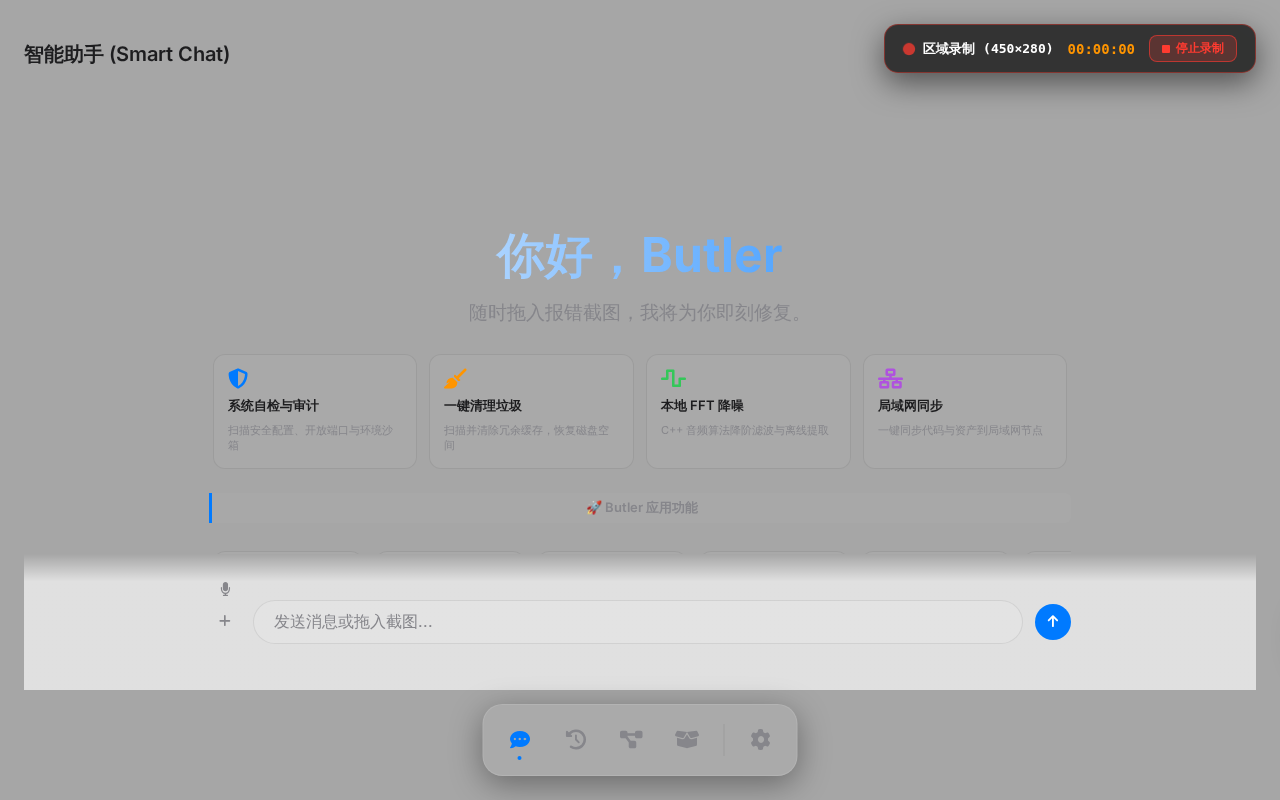
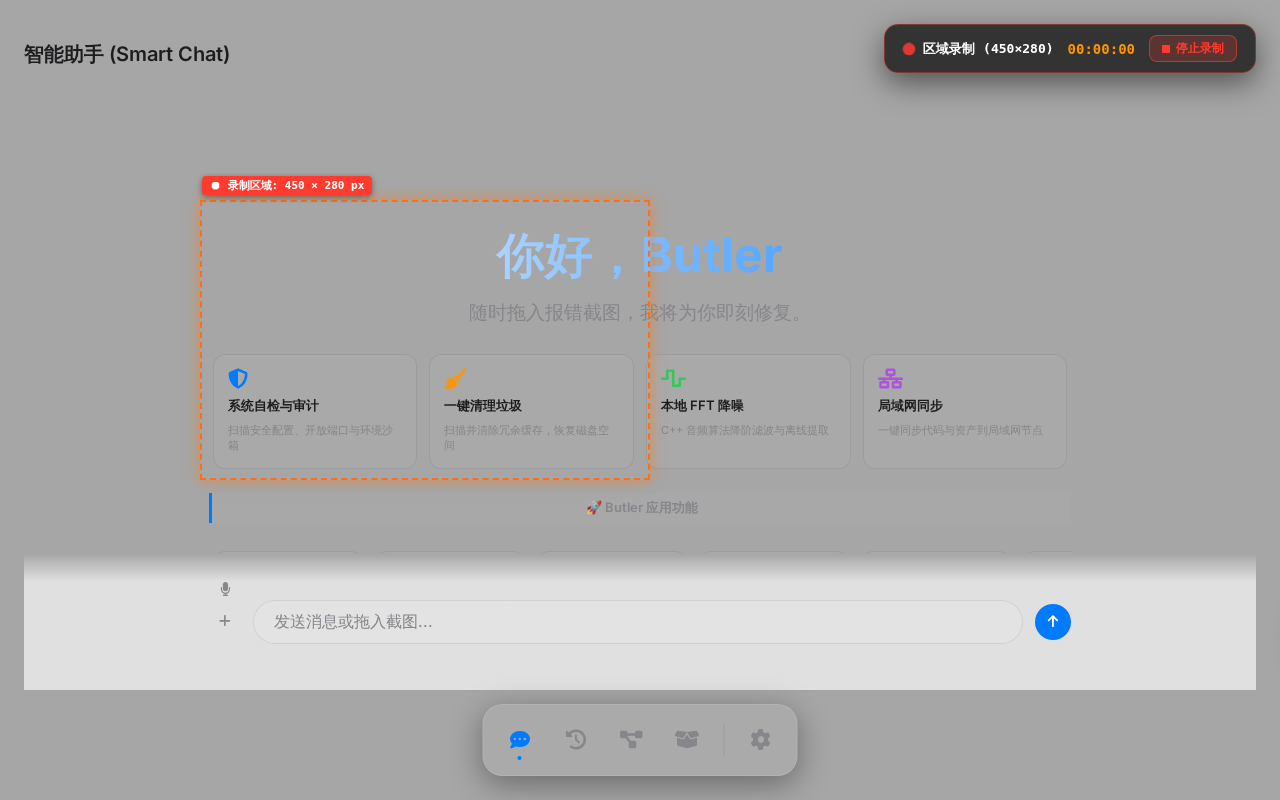
Add visible region border during area recording

Changed region(s): [[0.5, 0.25, 0.5312, 0.5938], [0.1562, 0.5938, 0.5, 0.625], [0.1562, 0.2188, 0.5, 0.25]]

diff --git a/frontend/src/components/screen_capture.ts b/frontend/src/components/screen_capture.ts
@@ -15,6 +15,7 @@ export class ScreenCaptureController {
   private _panelModalEl: HTMLElement | null = null;
   private _overlayEl: HTMLElement | null = null;
   private _recordingIndicatorEl: HTMLElement | null = null;
+  private _recordingRegionBorderEl: HTMLElement | null = null;
   private _annotationModalEl: HTMLElement | null = null;
 
   private _isSelecting: boolean = false;
@@ -451,6 +452,7 @@ export class ScreenCaptureController {
 
     if (this._activeMode === 'record') {
       this._removeOverlay();
+      this.showRecordingAreaBorder(rect);
       this.startRecordingUI(`区域录制 (${rect.width}×${rect.height})`);
       try {
         if ((window as any).pywebview?.api) {
@@ -544,6 +546,45 @@ export class ScreenCaptureController {
     }, 1000);
   }
 
+  public showRecordingAreaBorder(rect: SelectionRect): void {
+    this.removeRecordingAreaBorder();
+
+    const border = document.createElement('div');
+    border.id = 'sc-recording-region-border';
+    border.style.cssText = `
+      position: fixed; left: ${rect.x}px; top: ${rect.y}px;
+      width: ${rect.width}px; height: ${rect.height}px;
+      border: 2px dashed #FF3B30; box-shadow: 0 0 12px rgba(255, 59, 48, 0.6);
+      pointer-events: none; z-index: 10007;
+      animation: scBorderPulse 1.2s infinite alternate;
+    `;
+    border.innerHTML = `
+      <div style="
+          position: absolute; top: -26px; left: 0;
+          background: #FF3B30; color: #fff; font-size: 11px;
+          font-family: SFMono-Regular, Consolas, monospace; font-weight: bold;
+          padding: 2px 8px; border-radius: 4px; box-shadow: 0 2px 6px rgba(0,0,0,0.4);
+      ">
+        ⏺ 录制区域: ${Math.round(rect.width)} × ${Math.round(rect.height)} px
+      </div>
+      <style>
+        @keyframes scBorderPulse {
+          from { border-color: #FF3B30; box-shadow: 0 0 8px rgba(255, 59, 48, 0.4); }
+          to { border-color: #FF9500; box-shadow: 0 0 16px rgba(255, 149, 0, 0.8); }
+        }
+      </style>
+    `;
+    document.body.appendChild(border);
+    this._recordingRegionBorderEl = border;
+  }
+
+  public removeRecordingAreaBorder(): void {
+    if (this._recordingRegionBorderEl) {
+      this._recordingRegionBorderEl.remove();
+      this._recordingRegionBorderEl = null;
+    }
+  }
+
   public async stopRecordingUI(): Promise<void> {
     if (this._recordingTimer) {
       clearInterval(this._recordingTimer);
@@ -554,6 +595,8 @@ export class ScreenCaptureController {
       this._recordingIndicatorEl.remove();
       this._recordingIndicatorEl = null;
     }
+
+    this.removeRecordingAreaBorder();
 
     this._isRecording = false;
 

diff --git a/scripts/verify_screen_capture.py b/scripts/verify_screen_capture.py
@@ -35,12 +35,12 @@ async def run_verification():
         await page.screenshot(path=f"{screenshot_dir}/screen_capture_area_selection.png")
         print("[+] Screen capture area selection & live dimension label verified.")
 
-        # 3. Trigger Recording UI Indicator
+        # 3. Trigger Recording UI Indicator & Region Border
         await page.evaluate("if (window.ScreenCapture) window.ScreenCapture.closeAll();")
-        await page.evaluate("if (window.ScreenCapture) window.ScreenCapture.startRecordingUI('区域录制 (450×280)');")
+        await page.evaluate("if (window.ScreenCapture) { window.ScreenCapture.showRecordingAreaBorder({x:200, y:200, width:450, height:280}); window.ScreenCapture.startRecordingUI('区域录制 (450×280)'); }")
         await page.wait_for_timeout(500)
         await page.screenshot(path=f"{screenshot_dir}/screen_capture_recording_indicator.png")
-        print("[+] Screen capture recording indicator verified.")
+        print("[+] Screen capture recording indicator & active region border verified.")
 
         await page.screenshot(path=f"{screenshot_dir}/verification.png")
         await browser.close()
